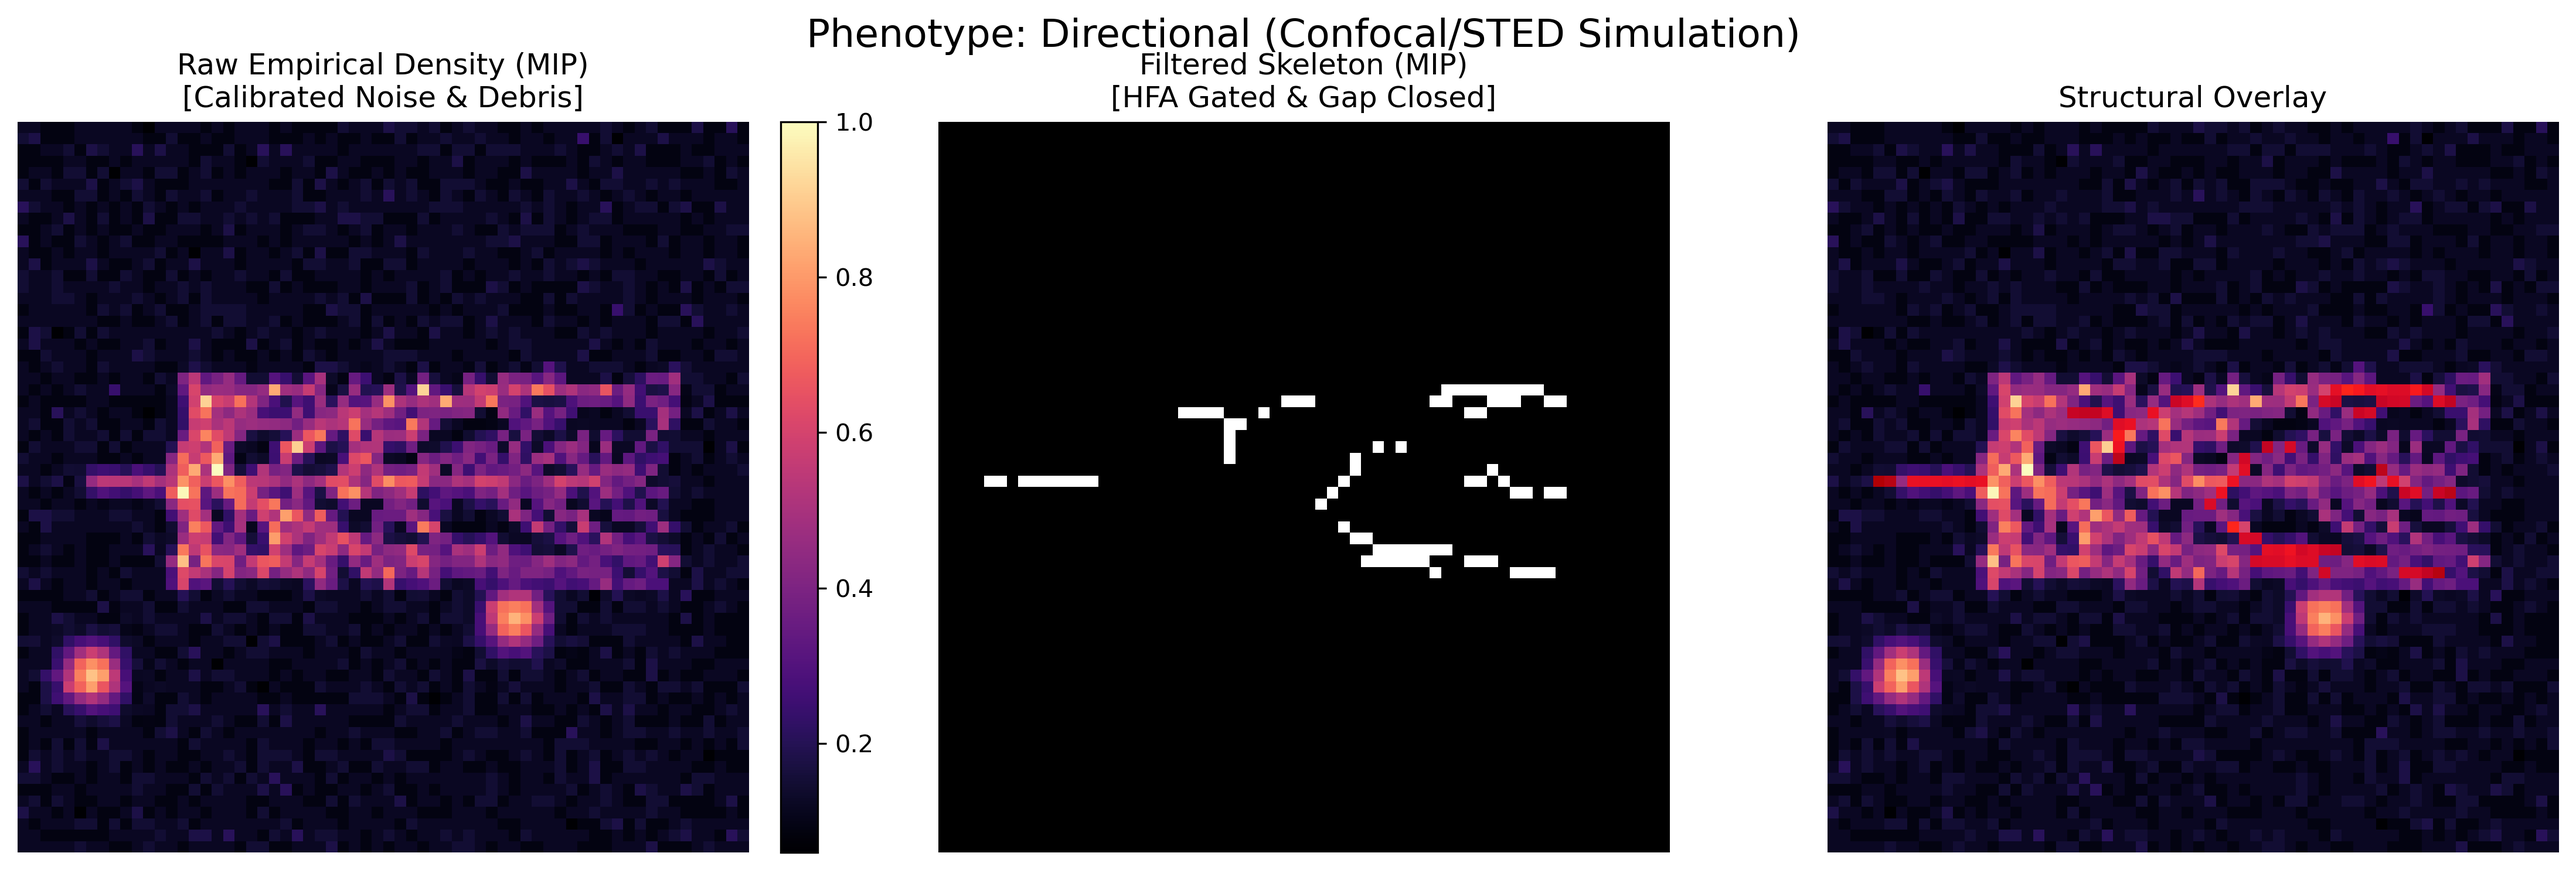
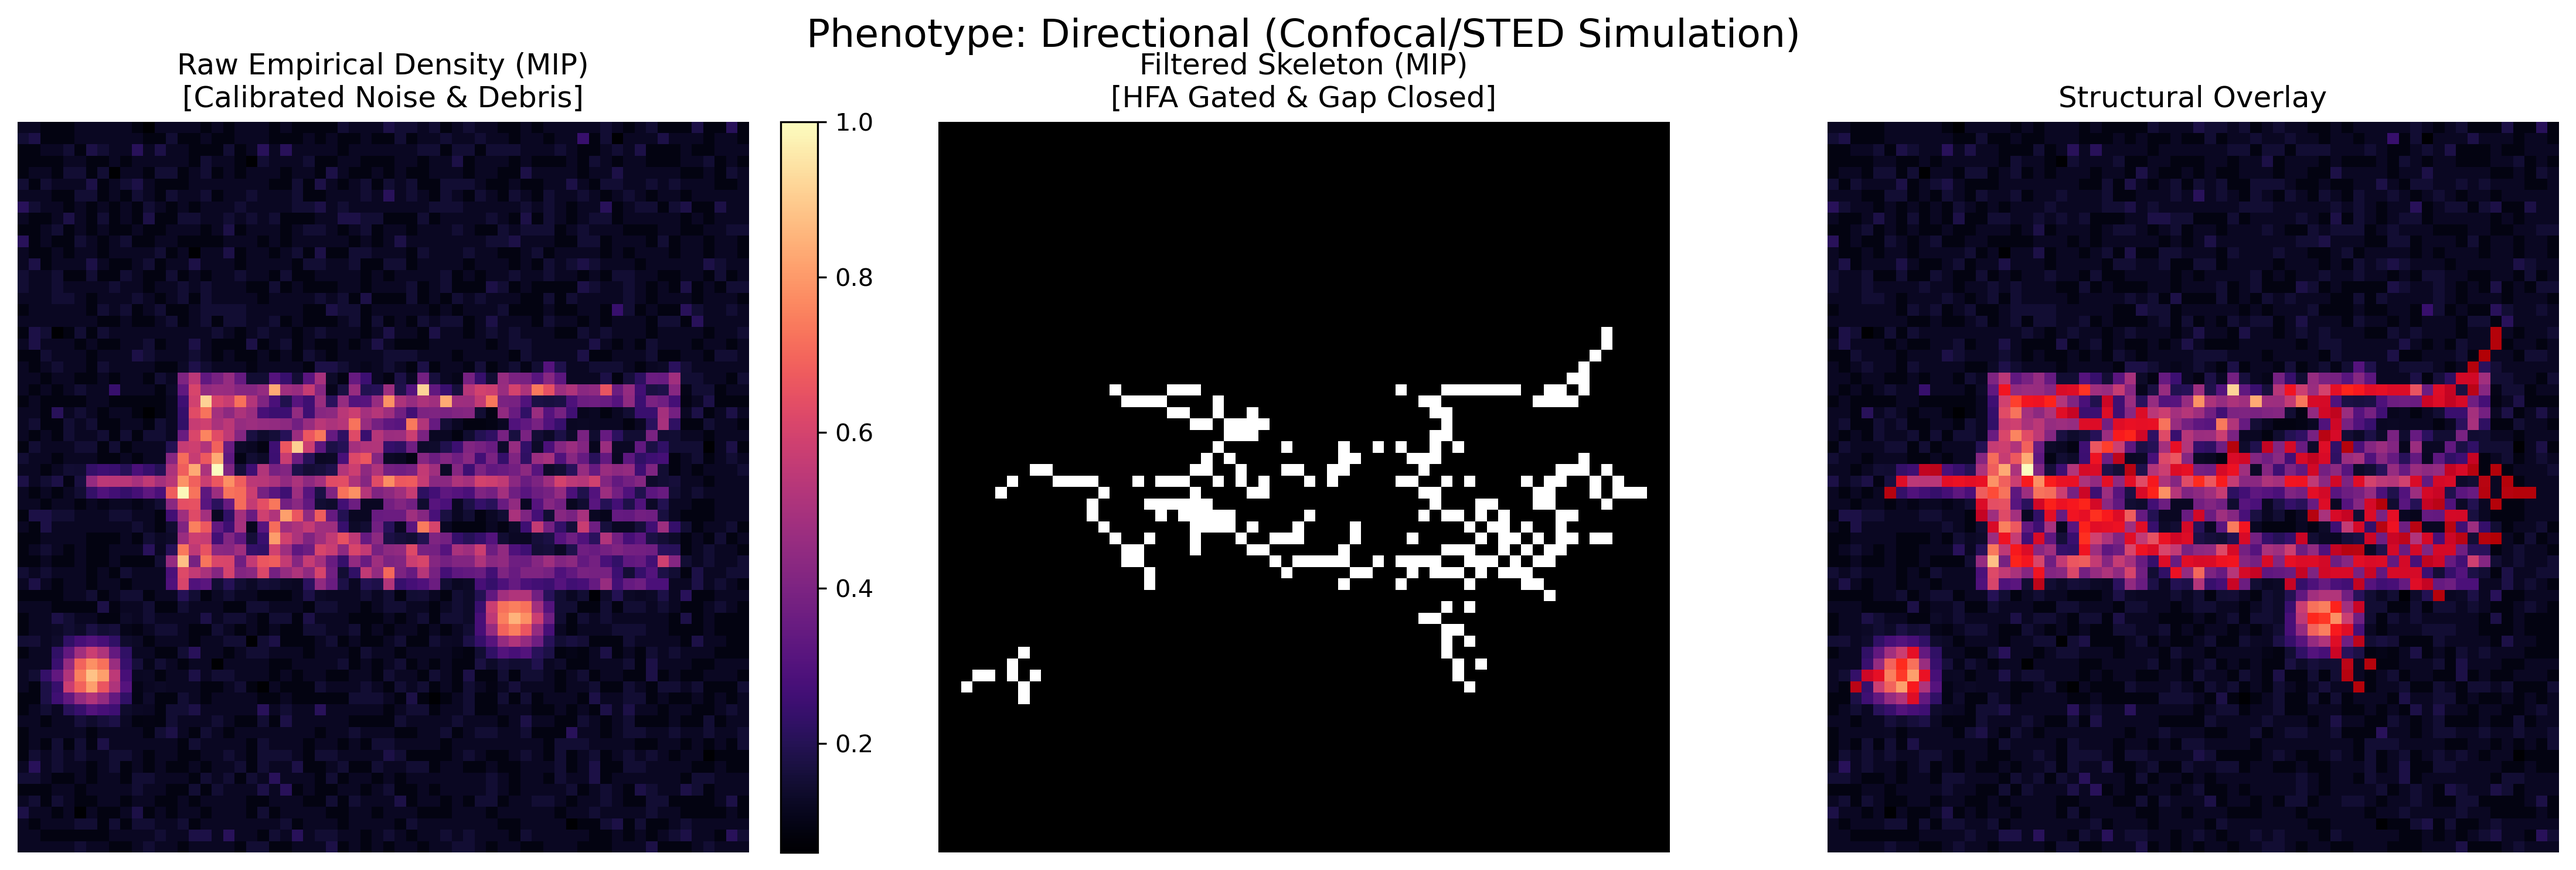
Improved sensitivity

diff --git a/src/analysis.py b/src/analysis.py
@@ -32,21 +32,26 @@ class TopologyAnalyzer:
     def __init__(self, ridge_sharpening_sigma: float = 1.0):
         self.ridge_sigma = ridge_sharpening_sigma
 
-    def extract_rough_mask_from_sharpened(self, sharpened_volume: np.ndarray) -> np.ndarray:
-        valid_voxels = sharpened_volume[sharpened_volume > 1e-4]
+    def extract_rough_mask_from_sharpened(self, base_volume: np.ndarray, target_volume: np.ndarray) -> np.ndarray:
+        """Computes thresholds on the continuous base_volume, but applies them to the NMS target_volume."""
+        valid_voxels = base_volume[base_volume > 1e-4]
         if len(valid_voxels) == 0: 
-            return np.zeros_like(sharpened_volume, dtype=bool)
+            return np.zeros_like(target_volume, dtype=bool)
 
+        # Calculate Otsu on the FULL fiber distribution, not just the NMS peaks
         high_thresh = threshold_otsu(valid_voxels)
-        # Bounded floor to prevent noise from dragging the threshold too low
-        high_thresh = np.clip(high_thresh, sharpened_volume.max() * 0.05, sharpened_volume.max() * 0.5)
+        dynamic_floor = base_volume.max() * 0.05
+        high_thresh = np.clip(high_thresh, dynamic_floor, base_volume.max() * 0.4)
         
         try:
             low_thresh = threshold_li(valid_voxels)
         except:
-            low_thresh = high_thresh * 0.4
+            low_thresh = high_thresh * 0.3
             
-        return apply_hysteresis_threshold(sharpened_volume, low_thresh, high_thresh)
+        low_thresh = min(low_thresh, high_thresh * 0.4)
+        
+        # Apply the mathematically stable thresholds to the carved valleys
+        return apply_hysteresis_threshold(target_volume, low_thresh, high_thresh)
 
     def build_network_coherence_gated(self, skeleton: np.ndarray, spacing: Tuple[float, float, float], fiber_evecs: np.ndarray) -> nx.Graph:
         G = nx.Graph()
@@ -69,7 +74,8 @@ class TopologyAnalyzer:
             
             v1, v2 = G.nodes[i]['vec'], G.nodes[j]['vec']
             
-            if abs(np.dot(edge_vec, v1)) > 0.7 and abs(np.dot(edge_vec, v2)) > 0.7:
+            # 0.45 threshold allows biological Y-branches (~60 deg) but blocks orthogonal noise (90 deg)
+            if abs(np.dot(edge_vec, v1)) > 0.45 and abs(np.dot(edge_vec, v2)) > 0.45:
                 G.add_edge(i, j)
         return G
 
@@ -169,17 +175,14 @@ class HessianAnalyzer:
             l2 = evals[row_idx, idx2]
             l3 = evals[row_idx, idx3]
             
-            # STRICT FRANGI RULE: Cross-sectional curvatures must be negative for bright tubes
-            # This completely eliminates dark noise, valleys, and saddle points
-            valid_structure = (l2 < 0) & (l3 < 0)
+            # Cross-sectional curvatures must be negative. Small epsilon handles numerical zeros.
+            valid_structure = (l2 < 1e-5) & (l3 < 1e-5)
             
             rb = np.abs(l1) / (np.sqrt(np.abs(l2 * l3)) + 1e-10)
-            S = np.sqrt(l1**2 + l2**2 + l3**2)
-            c = 0.25 * np.max(S) if np.max(S) > 0 else 1.0
             
-            # HFA attenuated by Blobness (rb) and Background Structureness (S)
+            # Vesselness relies purely on fractional anisotropy and blob suppression.
             vesselness = np.zeros_like(hfa_vals)
-            v_vals = hfa_vals[valid_structure] * np.exp(-(rb[valid_structure]**2) / (2 * BETA**2)) * (1.0 - np.exp(-(S[valid_structure]**2) / (2 * c**2)))
+            v_vals = hfa_vals[valid_structure] * np.exp(-(rb[valid_structure]**2) / (2 * BETA**2))
             vesselness[valid_structure] = v_vals
             
             current_v = np.zeros_like(volume)
@@ -300,7 +303,8 @@ class DensityVolumeAnalyzer:
         val_p = ndi.map_coordinates(sharpened, [z+dz, y+dy, x+dx], order=1, mode='constant', cval=0.0)
         val_m = ndi.map_coordinates(sharpened, [z-dz, y-dy, x-dx], order=1, mode='constant', cval=0.0)
         
-        is_max = (val_center > val_p) & (val_center > val_m)
+        # Inclusive comparison ensures broad peaks aren't totally wiped out
+        is_max = (val_center >= val_p) & (val_center >= val_m)
         out[z[is_max], y[is_max], x[is_max]] = val_center[is_max]
         return out
 
@@ -311,7 +315,6 @@ class DensityVolumeAnalyzer:
         z, y, x = coords.T
         dz, dy, dx = fiber_evecs[z, y, x, 0], fiber_evecs[z, y, x, 1], fiber_evecs[z, y, x, 2]
         
-        # Reduced to a single step bridge to prevent noise chaining
         for sign in [1, -1]:
             nz = np.clip(np.round(z + sign * dz).astype(int), 0, mask.shape[0]-1)
             ny = np.clip(np.round(y + sign * dy).astype(int), 0, mask.shape[1]-1)
@@ -339,15 +342,16 @@ class DensityVolumeAnalyzer:
         v_map, cross_ev, fiber_ev = self.hessian_analyzer.compute_multiscale(denoised, base_mask, voxel_spacing)
         
         nms_vol = self._apply_directional_nms(sharpened, cross_ev, base_mask)
-        mask_crop = self.topology_analyzer.extract_rough_mask_from_sharpened(nms_vol)
         
-        # Enforce vesselness gate to strip debris
-        mask_crop &= (v_map > 0.15)
+        # Proper threshold decoupling applied here
+        mask_crop = self.topology_analyzer.extract_rough_mask_from_sharpened(sharpened, nms_vol)
+        
+        # Relaxed gate allows dimmer fibers through
+        mask_crop &= (v_map > 0.10)
         mask_crop = self._directional_gap_bridging(mask_crop, fiber_ev)
         
         min_vol = max(32, int((self.expected_fiber_radius ** 3) * 100))
         
-        # Cleanly suppress API deprecation warnings
         with warnings.catch_warnings():
             warnings.simplefilter("ignore")
             try:

diff --git a/showcase_output/empirical_results_table.tex b/showcase_output/empirical_results_table.tex
@@ -6,9 +6,9 @@
 \hline
 \textbf{Phenotype} & \textbf{Vol \%} & \textbf{HFA} & \textbf{Macro FA} & \textbf{Valency} & \textbf{Bifurc \%} & \textbf{Cross \%} \\
 \hline
-Highly Branched & 1.606 & 0.556 & 0.412 & 2.647 & 32.35 & 20.59 \\
-Directional & 0.962 & 0.529 & 0.493 & 2.854 & 28.05 & 31.71 \\
-Random Tangle & 1.781 & 0.664 & 0.486 & 3.135 & 32.43 & 40.54 \\
+Highly Branched & 2.290 & 0.769 & 0.419 & 2.451 & 32.66 & 10.10 \\
+Directional & 1.617 & 0.710 & 0.478 & 2.381 & 26.12 & 11.19 \\
+Random Tangle & 2.144 & 0.801 & 0.490 & 2.568 & 31.29 & 16.13 \\
 \hline
 \end{tabular}
 \vspace{1ex}
